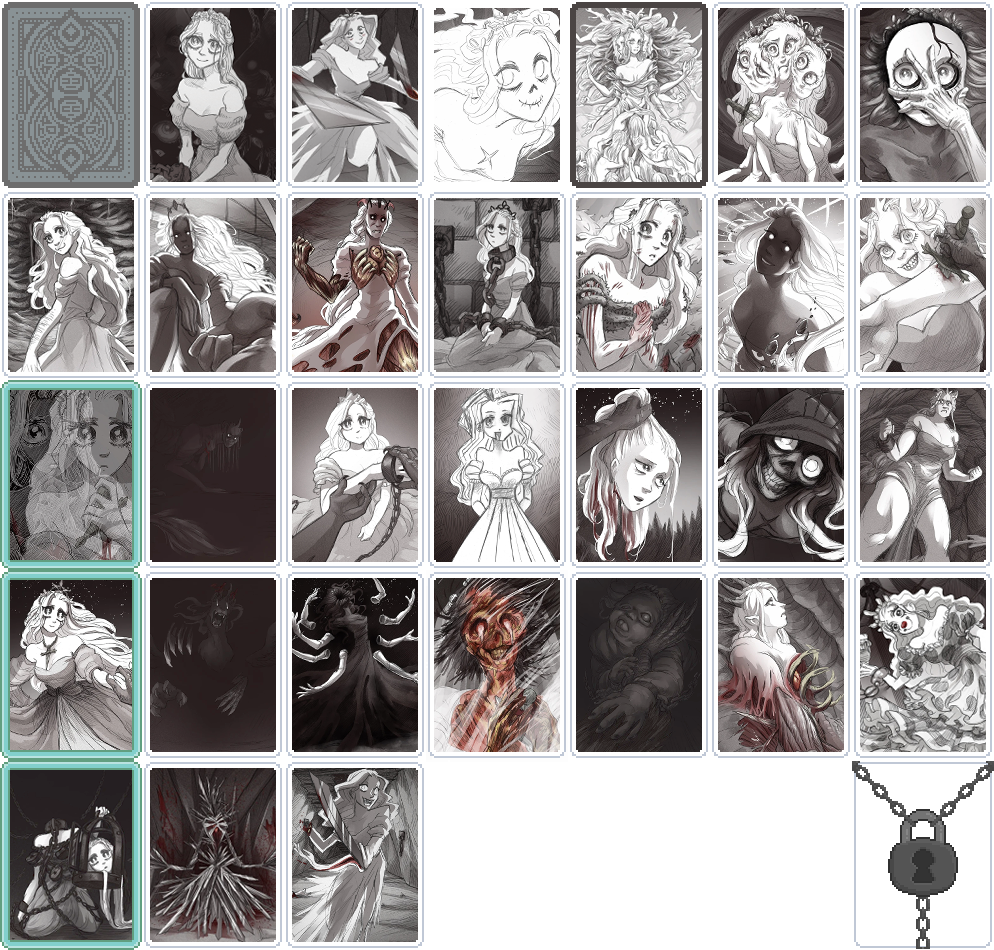
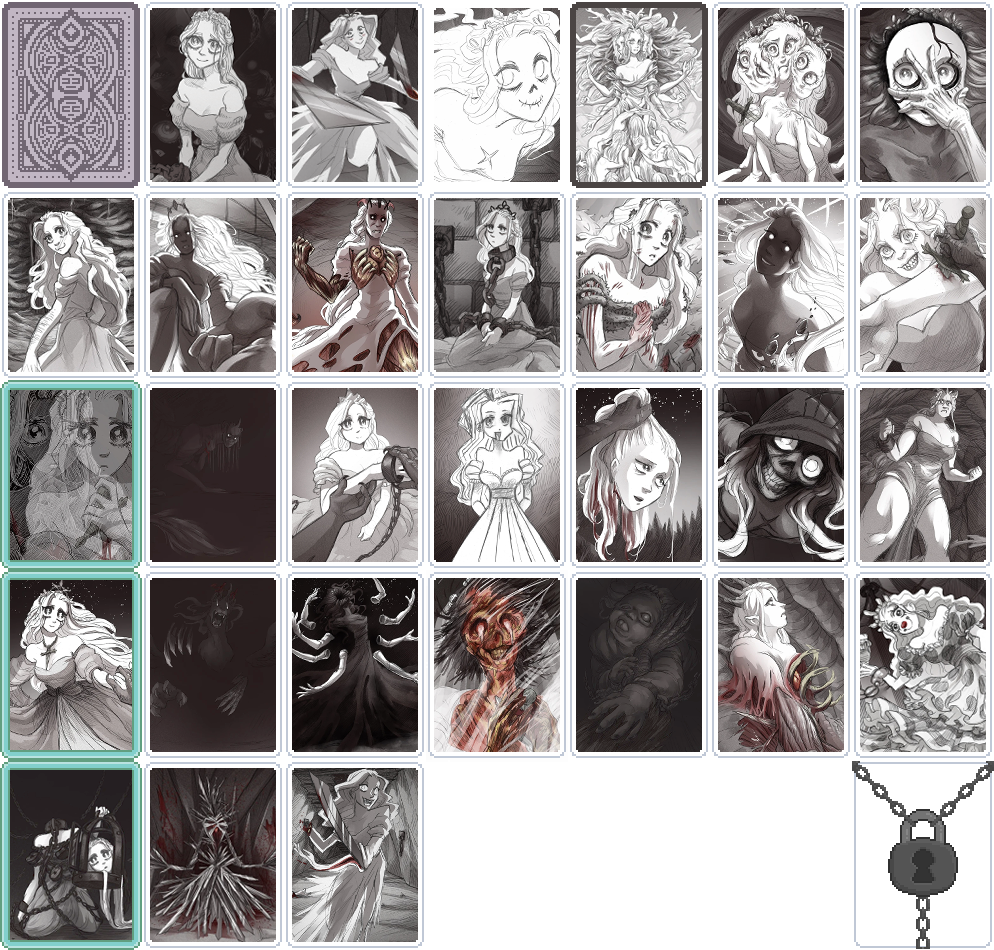
Extend readme and update deck color

Changed region(s): [[0.0, 0.0, 0.1559, 0.2137]]

diff --git a/README.md b/README.md
@@ -1,12 +1,26 @@
-![image](.github/thumbnail.png)
+<img src=".github/thumbnail.png" alt="image" width="800"/>
+
 ## Content
 This Slay The Princess themed Balatro mod adds 30 Jokers, some of which introduce new mechanics, a new deck, and more!
 
-![image](.github/jokers1.png)
-![image](.github/jokers2.png)
+<img src=".github/jokers1.png" alt="image" width="400"/>
+<img src=".github/jokers2.png" alt="image" width="400"/>
 
-## Requirements
-[Steamodded](https://github.com/Steamodded/smods/releases/latest)
+I have some ideas to expand this mod with (Vouchers, a new Consumable type, The Long Quiet Deck, and several more...), but no promises as life can get in the way.
 
 ## Installation
-
+- Requires [Steamodded](https://github.com/Steamodded/smods/releases/latest), install the latest version if you haven't already
+- Download the latest release of Slay the Princess - A Balatro Mod
+- Extract the downloaded mod and move it to the Mods folder (on Windows %appdata%/Balatro/Mods)
+- The structure should look like the following:
+```text
+%APPDATA%/
+└─ Balatro/
+   └─ Mods/
+      └─ SlayThePrincess/
+         └─ .github/
+         └─ assets/
+         └─ .gitattributes
+         └─ README.md
+         └─ SlayThePrincess.lua
+```

diff --git a/.github/todo.md b/.github/todo.md
@@ -7,6 +7,3 @@ Shifting Mound is too weak for a Legendary
 Apotheosis is (potentially?) too strong
 Not enough econ
 Fury and Mutual almost same mechanic
-
-# Things to add:
-Readme
